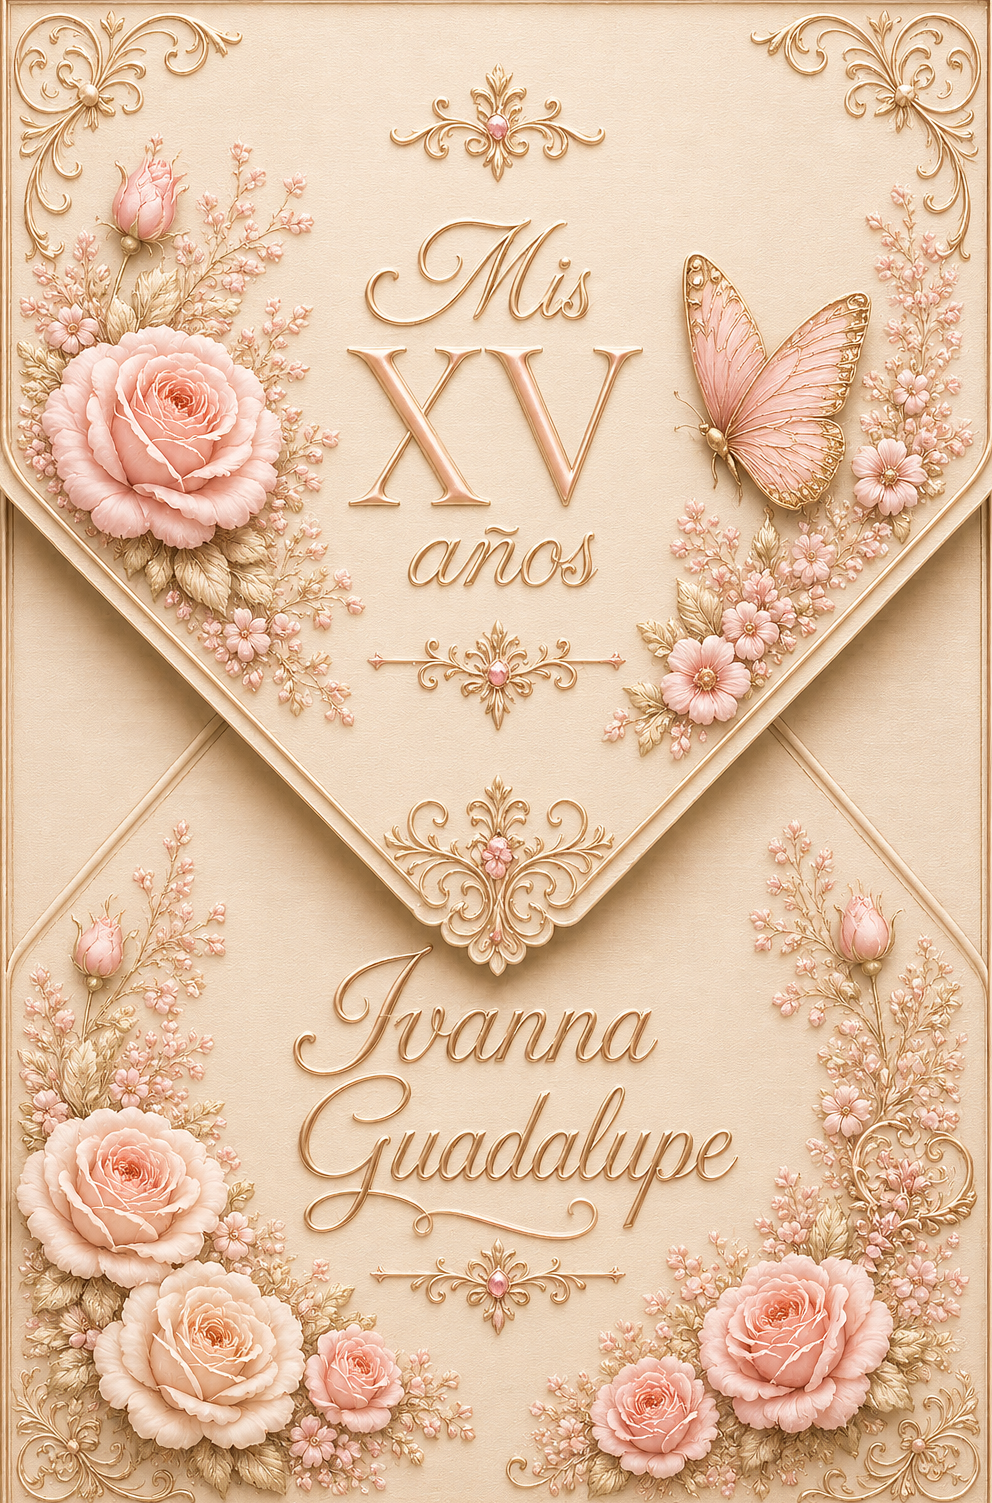
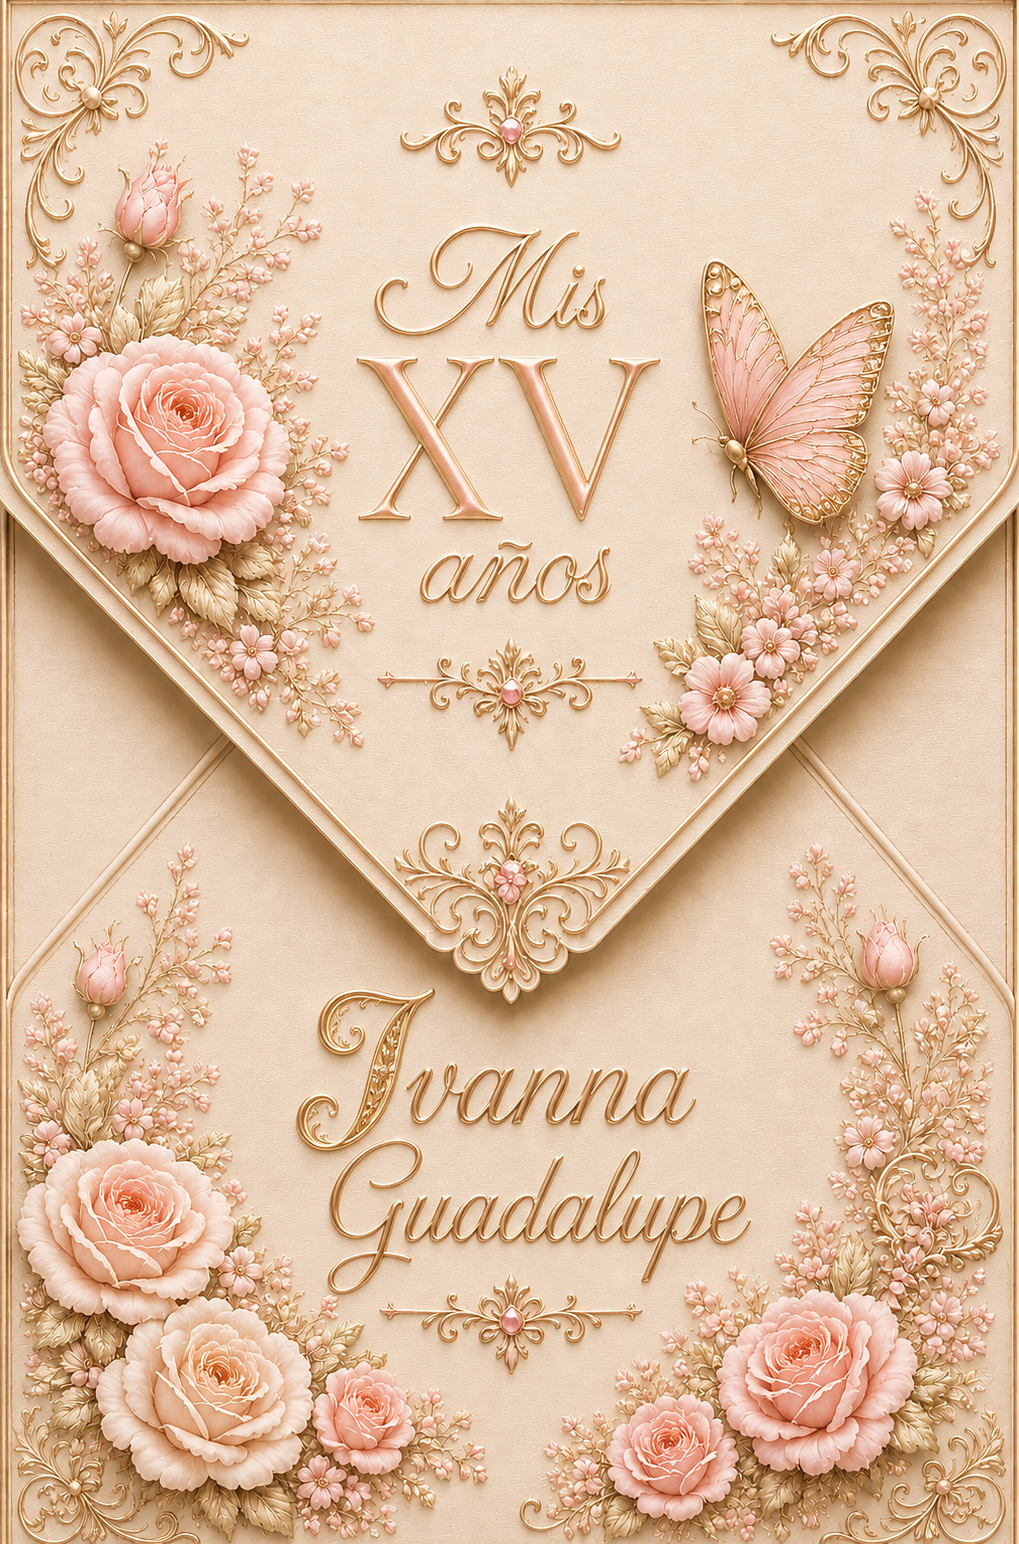
“MARTES_18”

diff --git a/invi_agosto/Full_web_IvannaGuadalupe/invitacion.html b/invi_agosto/Full_web_IvannaGuadalupe/invitacion.html
@@ -273,8 +273,8 @@
     }
 
     .hero-name {
-      font-family: "Great Vibes", cursive;
-      font-size: 6.8rem;
+      font-family: "Nova Quinta", cursive;
+      font-size: 4.8rem;
       margin-bottom: 0.2rem;
       color: #fffdfb;
       text-shadow: 0 4px 20px rgba(107, 62, 77, 0.35);
@@ -1014,7 +1014,7 @@
 
     <!-- 1. HERO -->
     <section id="inicio" class="hero-full">
-      <img src="img/PORTADA.png" alt="">
+      <img src="img/portada.png" alt="">
       <div class="hero-overlay">
         <div>
           <div class="hero-name">Ivanna Guadalupe</div>
